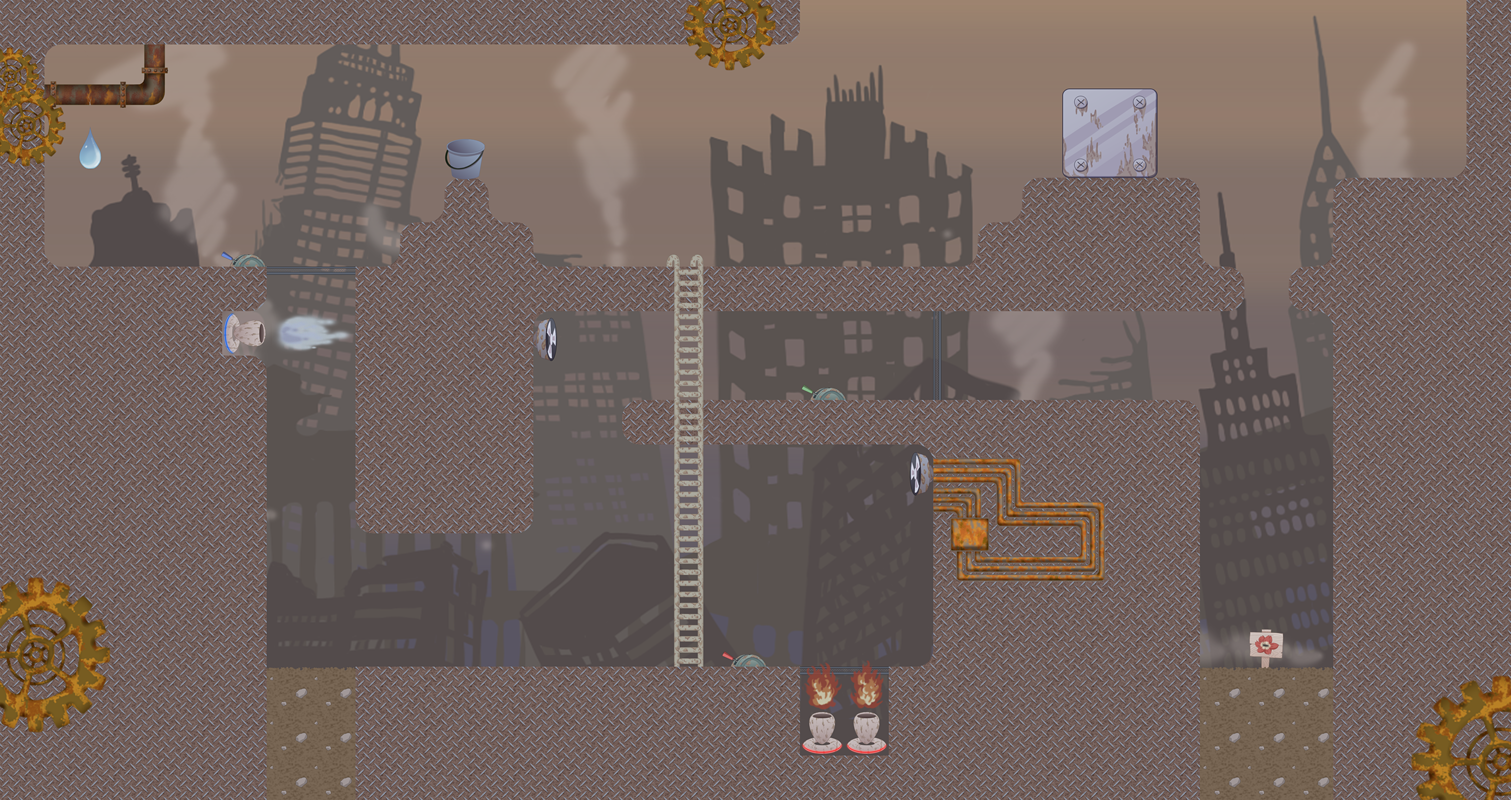
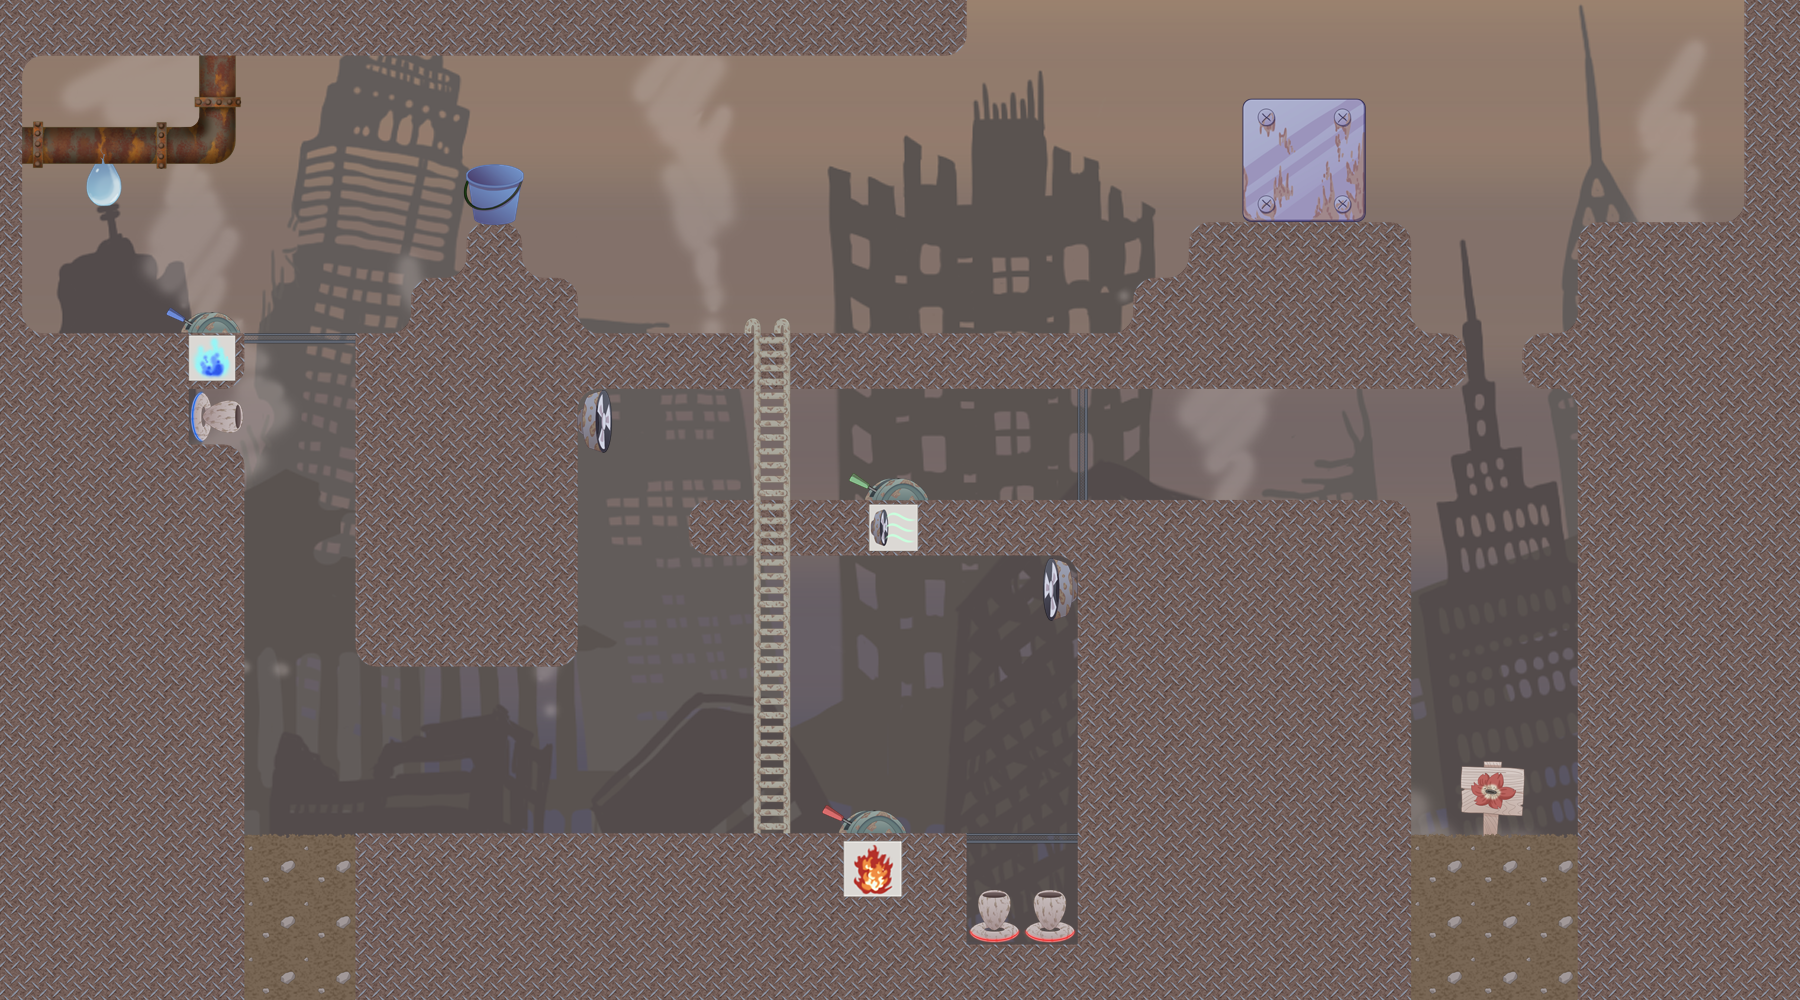
ステージセレクト画像変更、描画順調整、不要リソース一部削除、マップ調整

Changed region(s): [[0.0, 0.0, 1.0, 1.0]]

diff --git a/trickleLibrary/OG2D/src/Map/Map.cpp b/trickleLibrary/OG2D/src/Map/Map.cpp
@@ -15,7 +15,7 @@ Map::Map()
 	this->chipsize = { 256,256 };
 	this->DrawSize = { 64,64 };
 	__super::Init((std::string)"map");
-	__super::SetDrawOrder(0.1f);
+	__super::SetDrawOrder(0.4f);
 }
 
 Map::~Map()
